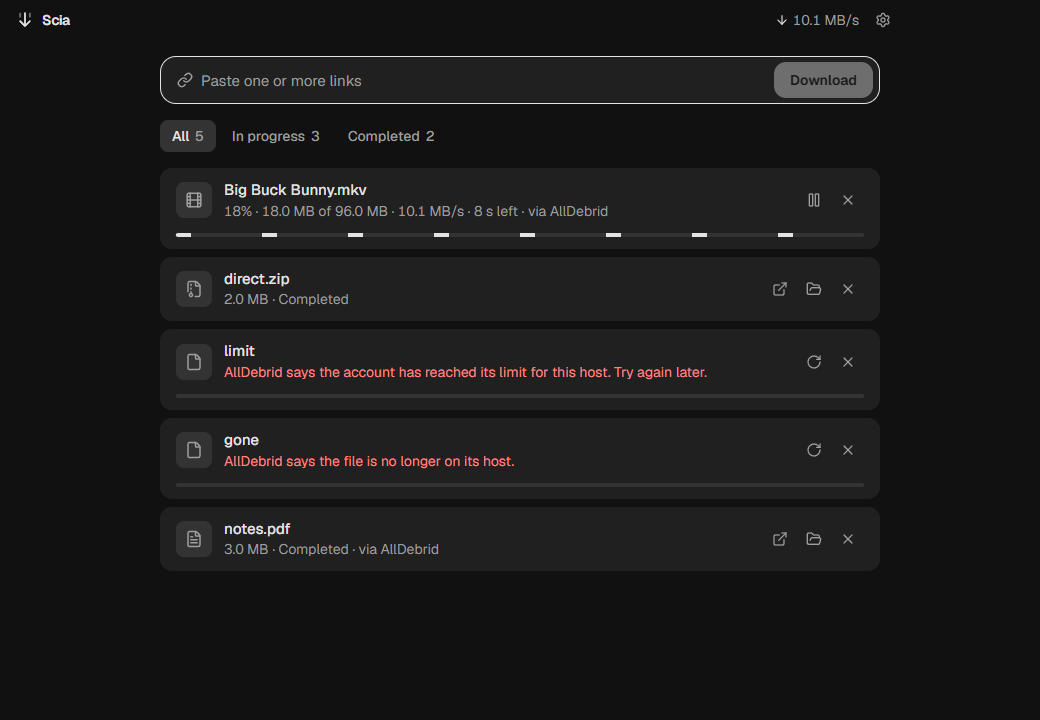
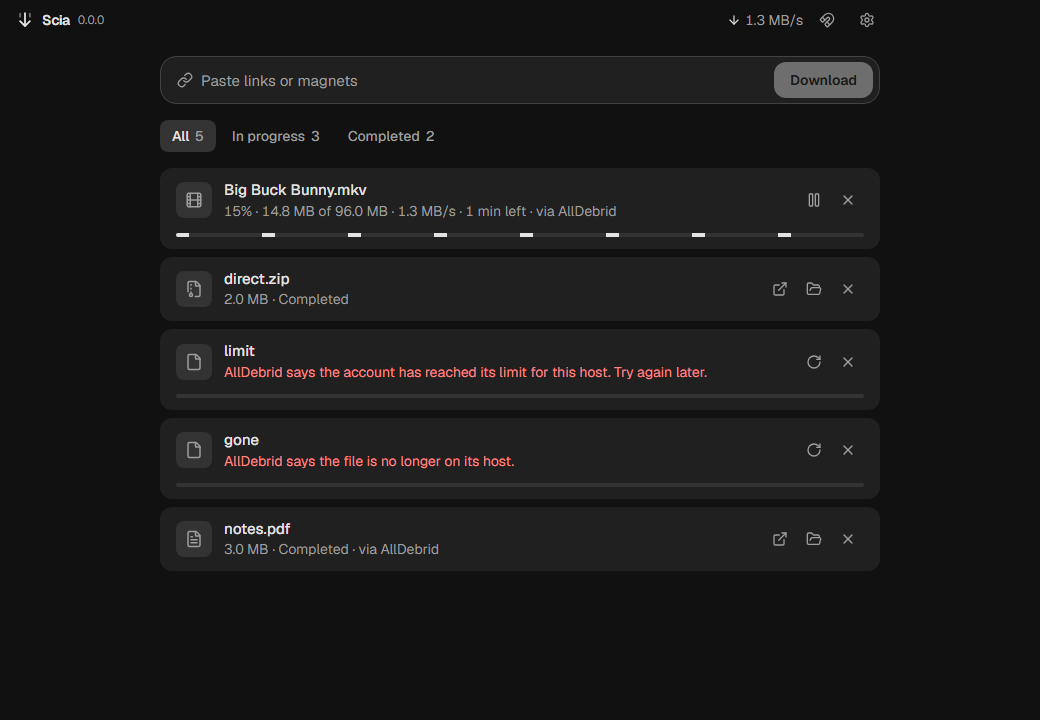
docs(design): retake the ten captures that show the field with alldebrid connected
Taken by CI's E2E job on 0e78202 and read before this commit: a-magnet
and its light twin, via-a-service, a-failure-in-full and the four of the
account's panel (magnets.e2e), and settings and its light twin
(settings.e2e). Each shows "Paste links or magnets"; the folder in the
two of Settings is the runner's.

diff --git a/docs/design/README.md b/docs/design/README.md
@@ -57,7 +57,7 @@ The light variant of a capture is the page told that the system asks for light (
 
 The three captures of a notice over Settings were taken by CI's E2E job (`apps/desktop/e2e/notices.e2e.test.ts`, "takes the captures of a notice over Settings"), and so were, for "Change…" (#276), `settings.png`, `two-ways-to-connect.png`, `connect-a-service.png`, `connect-with-a-code.png` and their light twins where they have one (`apps/desktop/e2e/settings.e2e.test.ts`, "takes the captures of Settings", against the simulated service), and `downloads-paused.png` (`apps/desktop/e2e/paused.e2e.test.ts`, "takes the capture of a paused download beside the running ones", its downloads from hosts of the runner that send slowly, and a failure answered with 404), from the built app on a scratch profile of the runner, the page given its size over the protocol; they were read before they were committed. The folder they show is the runner's, deleted after the run, and the version beside the name is that of a build that is not a release, `0.0.0`.
 
-Since #150 the field says "Paste links or magnets" while AllDebrid is connected. The ten captures that show the field with AllDebrid connected were taken again for it by CI's E2E job, from the built app on a scratch profile of the runner, against the simulated service and local hosts, and read before they were committed: `a-magnet.png` and its light twin, `via-a-service.png`, `a-failure-in-full.png` and the four of the account's panel (`apps/desktop/e2e/magnets.e2e.test.ts`, "takes the captures"), and `settings.png` and its light twin (`settings.e2e.test.ts`, above, which connects AllDebrid before it opens Settings again). They show the version beside the name and, but for Settings, the button of the account's magnets in the title bar; the narrow panel's running download is a plain file, no longer a page's video.
+Since #150 the field says "Paste links or magnets" while AllDebrid is connected. The ten captures that show the field with AllDebrid connected were taken again for it by CI's E2E job (its run on #287's head 0e78202), from the built app on a scratch profile of the runner, against the simulated service and local hosts, and read before they were committed: `a-magnet.png` and its light twin, `via-a-service.png`, `a-failure-in-full.png` and the four of the account's panel (`apps/desktop/e2e/magnets.e2e.test.ts`, "takes the captures"), and `settings.png` and its light twin (`settings.e2e.test.ts`, above, which connects AllDebrid before it opens Settings again). They show the version beside the name and, but for Settings, the button of the account's magnets in the title bar; the narrow panel's running download is a plain file, no longer a page's video.
 
 From #133 the title bar names the version beside "Scia" (or offers an update there); the captures above taken before it show the title bar without it, and are retaken in #156.
 
